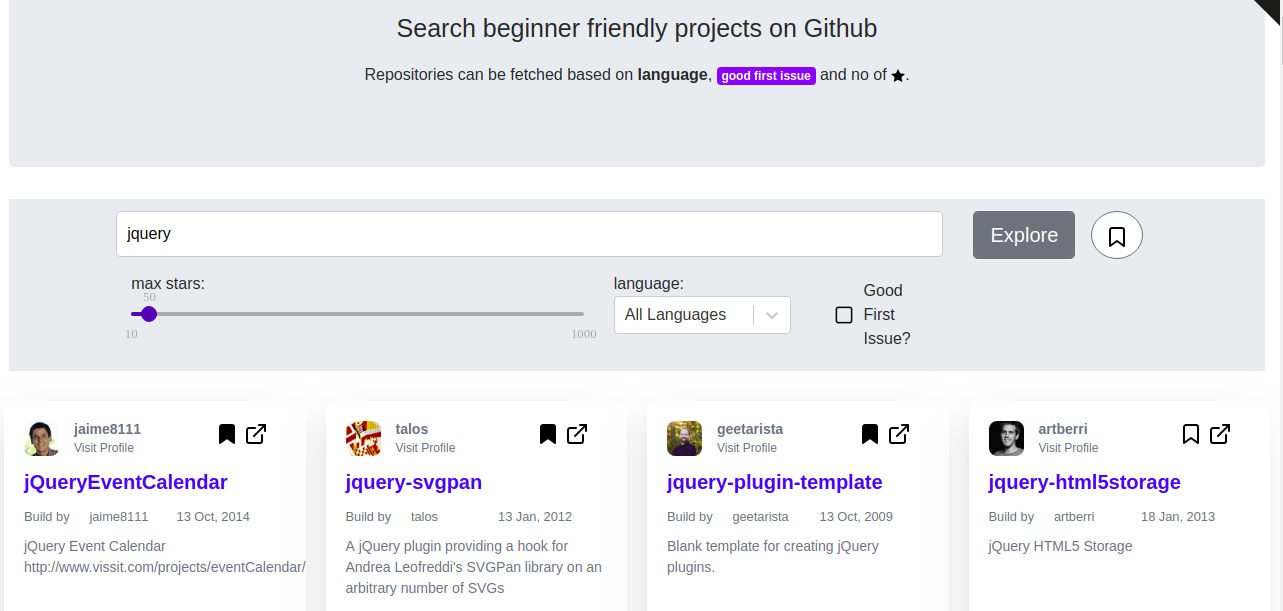
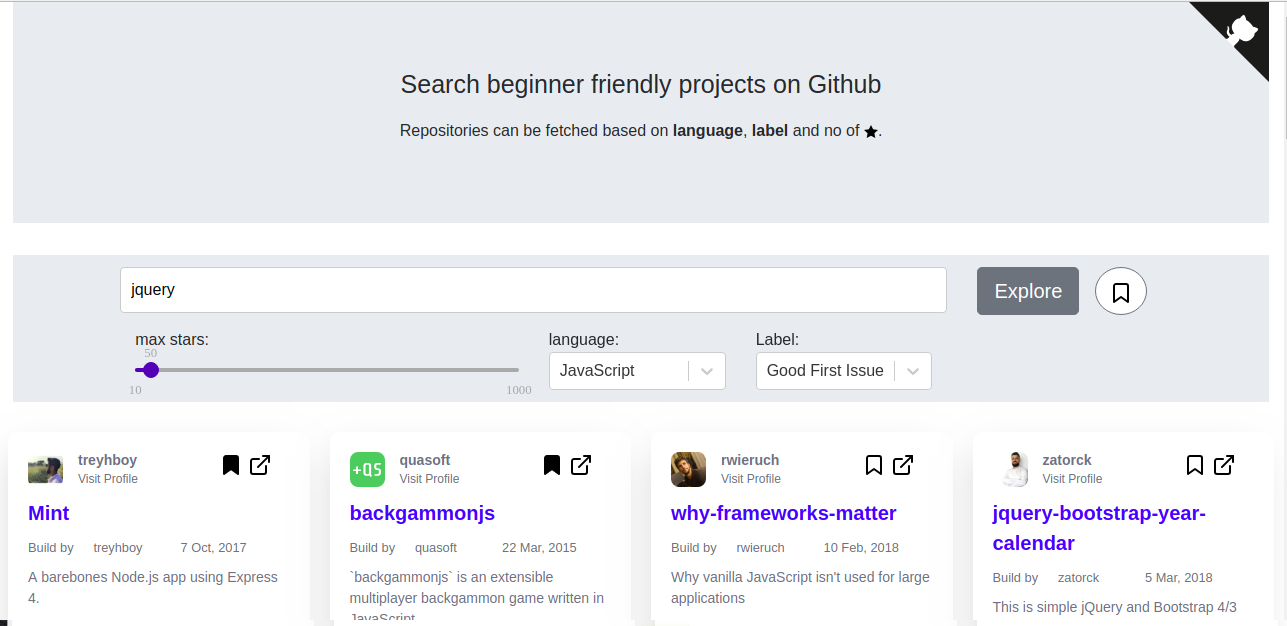
Readme screenshots updated

diff --git a/public/index.html b/public/index.html
@@ -29,7 +29,7 @@
 <body>
   <noscript>You need to enable JavaScript to run this app.</noscript>
   <a href="https://github.com/manishsaraan/git-first" class="github-corner" aria-label="View source on GitHub">
-    <svg width="80" height="80" viewBox="0 0 250 250" style="fill:#151513; color:#fff; position: absolute; top: 0; border: 0; right: 0;"
+    <svg width="80" height="80" viewBox="0 0 250 250" style="fill:#151513; color:#fff; position: absolute; top: 0; border: 0; right: 15px;"
       aria-hidden="true">
       <path d="M0,0 L115,115 L130,115 L142,142 L250,250 L250,0 Z"></path>
       <path d="M128.3,109.0 C113.8,99.7 119.0,89.6 119.0,89.6 C122.0,82.7 120.5,78.6 120.5,78.6 C119.2,72.0 123.4,76.3 123.4,76.3 C127.3,80.9 125.5,87.3 125.5,87.3 C122.9,97.6 130.6,101.9 134.4,103.2"

diff --git a/src/App.js b/src/App.js
@@ -99,9 +99,7 @@ class App extends Component {
           <p>
             {" "}
             Repositories can be fetched based on <b>language</b>,{" "}
-            <span className="issue-badge badge badge-secondary">
-              good first issue
-            </span>{" "}
+            <b>label</b>{" "}
             and no of{" "}
             <svg
               viewBox="0 0 14 16"

diff --git a/src/App.css b/src/App.css
@@ -107,6 +107,9 @@ body {
   margin-right: 10px;
 }
 
+.jumbotron {
+  border-radius: 0;
+}
 .issues a {
   color: #212529;
 }
